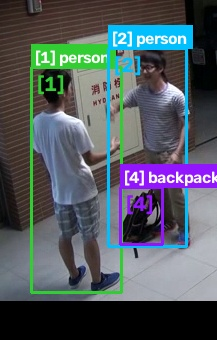
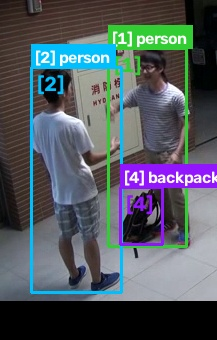
fix(tracking): preserve global IDs, resolve tracker flicker via nearest-frame continuity and update worklog
- Preserve true global tracking IDs end-to-end between CCTV monitoring (Branch A) and Set-of-Marks crop zoom (Branch B)
- Implement nearest-frame spatio-temporal continuity to resolve ByteTrack flicker in Video 7
- Enforce strict concurrent IoU constraint to prevent false person merges in Video 1
- Refine stationary object clustering using body manipulation zone and dwell ratio (>= 25%)
- Apply adaptive spatio-temporal sampling across active interaction windows
- Update WORKLOG.md with 2026-09-29 entry

Changed region(s): [[0.1106, 0.0588, 0.9124, 0.8824]]

diff --git a/pipeline_roi_crop.py b/pipeline_roi_crop.py
@@ -1,3 +1,4 @@
+import glob
 """
 Unified Forward Pipeline with Task 2: Spatial Clustering & Dynamic ROI Zoom Crop
 =================================================================================
@@ -178,12 +179,13 @@ for f_idx in range(start_frame, end_frame + 1):
         c_det = ((b_det[0] + b_det[2]) / 2.0, (b_det[1] + b_det[3]) / 2.0)
 
         for tr in active_object_tracklets:
-            if (f_idx - tr["last_frame"]) <= 25:
+            gap = f_idx - tr["last_frame"]
+            if gap <= 40:
                 last_b = tr["frame_map"][tr["last_frame"]]
                 c_last = ((last_b[0] + last_b[2]) / 2.0, (last_b[1] + last_b[3]) / 2.0)
                 center_dist = math.hypot(c_det[0] - c_last[0], c_det[1] - c_last[1])
                 iou = compute_box_iou(b_det, last_b)
-                if iou >= 0.20 or center_dist <= 40.0:
+                if iou >= 0.20 or center_dist <= 60.0 or (gap <= 10 and center_dist <= 90.0):
                     if center_dist < best_dist:
                         best_dist = center_dist
                         matched_tr = tr
@@ -221,41 +223,112 @@ for fd in frame_detections:
         person_tid_stats[tid]["total_area"] += area
         person_tid_stats[tid]["frames"][fd["frame_idx"]] = b
 
-stable_persons = [
-    tid for tid, stats in person_tid_stats.items()
-    if stats["count"] >= 15 and (stats["total_area"] / stats["count"]) >= 2000
+# Temporal Tracklet Stitching (TTS) for Persons across temporary tracking dropouts
+raw_person_tracklets = [
+    {"id": tid, "frames": stats["frames"], "total_area": stats["total_area"]}
+    for tid, stats in person_tid_stats.items()
+    if stats["count"] >= 20 and (stats["total_area"] / stats["count"]) >= 1500
 ]
-stable_persons.sort(key=lambda tid: person_tid_stats[tid]["total_area"], reverse=True)
-num_persons = min(3, len(stable_persons))
-canonical_persons = sorted(stable_persons[:num_persons])
-canonical_person_map = {orig_tid: i + 1 for i, orig_tid in enumerate(canonical_persons)}
+raw_person_tracklets.sort(key=lambda t: min(t["frames"].keys()))
 
+stitched_persons = []
+for tr in raw_person_tracklets:
+    tr_start = min(tr["frames"].keys())
+    tr_start_b = tr["frames"][tr_start]
+    c_start = ((tr_start_b[0] + tr_start_b[2]) / 2.0, (tr_start_b[1] + tr_start_b[3]) / 2.0)
+    matched_sp = None
+    for sp in stitched_persons:
+        # Check temporal and spatial continuity across dropouts, concurrent duplicates, or tracker ID flicker
+        common_f = set(tr["frames"].keys()) & set(sp["frames"].keys())
+        if common_f:
+            # Overlapping tracklets: only merge if spatial duplicate of the same body (mean IoU >= 0.35)
+            ious = [compute_box_iou(tr["frames"][f], sp["frames"][f]) for f in common_f]
+            if np.mean(ious) >= 0.35:
+                matched_sp = sp
+                break
+        else:
+            # Non-concurrent tracklets (sequential or interleaved tracker flicker):
+            # Find nearest frames in time between tr and sp
+            min_dt = float("inf")
+            best_pair = None
+            for f_a in tr["frames"]:
+                for f_b in sp["frames"]:
+                    dt = abs(f_a - f_b)
+                    if dt < min_dt:
+                        min_dt = dt
+                        best_pair = (tr["frames"][f_a], sp["frames"][f_b])
+                        if dt == 1:
+                            break
+                if min_dt == 1:
+                    break
+            
+            # Brief dropout or tracker alternating flicker: dt <= 15 frames (~0.5s)
+            if min_dt <= 15 and best_pair is not None:
+                b1, b2 = best_pair
+                dist = compute_box_edge_distance(b1, b2)
+                iou = compute_box_iou(b1, b2)
+                if dist <= 35.0 or iou >= 0.30:
+                    matched_sp = sp
+                    break
+    if matched_sp is not None:
+        matched_sp["frames"].update(tr["frames"])
+        matched_sp["total_area"] += tr["total_area"]
+        matched_sp["orig_tids"].append(tr["id"])
+    else:
+        stitched_persons.append({
+            "orig_tids": [tr["id"]],
+            "frames": dict(tr["frames"]),
+            "total_area": tr["total_area"]
+        })
+
+stitched_persons.sort(key=lambda p: p["total_area"], reverse=True)
+canonical_persons = stitched_persons[:3]  # keep top foreground actors
 person_entities = {}
-for orig_tid, c_tid in canonical_person_map.items():
-    p_id = f"[{c_tid}]"
+for i, cp in enumerate(canonical_persons):
+    p_id = f"[{i + 1}]"
     person_entities[p_id] = {
         "class": "person",
-        "frame_map": person_tid_stats[orig_tid]["frames"],
+        "frame_map": cp["frames"],
         "type": "person"
     }
+num_persons = len(person_entities)
 
 # Object tracklet cross-class merging & stationary occlusion gap interpolation
-persistent_raw_objects = [tr for tr in active_object_tracklets if len(tr["frame_map"]) >= 15]
+persistent_raw_objects = [tr for tr in active_object_tracklets if len(tr["frame_map"]) >= 25]
 
+# Sort by appearance frame and apply Temporal Tracklet Stitching (TTS) for objects
+persistent_raw_objects.sort(key=lambda tr: min(tr["frame_map"].keys()))
 merged_objects = []
 for tr in persistent_raw_objects:
+    t_start = min(tr["frame_map"].keys())
+    b_start = tr["frame_map"][t_start]
+    c_start = ((b_start[0] + b_start[2]) / 2.0, (b_start[1] + b_start[3]) / 2.0)
+    c_class = max(tr["class_votes"].items(), key=lambda kv: kv[1])[0]
+    
     matched = None
     for mo in merged_objects:
-        b1_arr = np.array(list(tr['frame_map'].values()))
-        b2_arr = np.array(list(mo['frame_map'].values()))
-        c1 = (np.mean(b1_arr[:, 0] + b1_arr[:, 2]) / 2.0, np.mean(b1_arr[:, 1] + b1_arr[:, 3]) / 2.0)
-        c2 = (np.mean(b2_arr[:, 0] + b2_arr[:, 2]) / 2.0, np.mean(b2_arr[:, 1] + b2_arr[:, 3]) / 2.0)
-        if math.hypot(c1[0] - c2[0], c1[1] - c2[1]) <= 40.0:
-            matched = mo
-            break
+        mo_end = max(mo["frame_map"].keys())
+        b_end = mo["frame_map"][mo_end]
+        c_end = ((b_end[0] + b_end[2]) / 2.0, (b_end[1] + b_end[3]) / 2.0)
+        mo_class = max(mo["class_votes"].items(), key=lambda kv: kv[1])[0]
+        
+        gap = t_start - mo_end
+        dist = math.hypot(c_start[0] - c_end[0], c_start[1] - c_end[1])
+        
+        # Merge if same/compatible class (e.g. handbag <-> backpack) and either:
+        # (a) Spatial overlap/stationary match (dist <= 45px)
+        # (b) Sequential human transport continuity (gap <= 50 frames and dist <= 130px)
+        is_bag_family = (c_class in ["backpack", "handbag"]) and (mo_class in ["backpack", "handbag"])
+        is_same_class = (c_class == mo_class) or is_bag_family
+        
+        if is_same_class:
+            if dist <= 45.0 or (-5 <= gap <= 50 and dist <= 160.0):
+                matched = mo
+                break
+                
     if matched is not None:
         matched["frame_map"].update(tr["frame_map"])
-        matched["confs"].extend(tr["confs"])
+        matched["confs"].extend(tr.get("confs", []))
         for cn, count in tr["class_votes"].items():
             matched["class_votes"][cn] = matched["class_votes"].get(cn, 0) + count
     else:
@@ -354,7 +427,19 @@ generated_payloads = []
 for c in active_clusters:
     cid = c["cluster_id"]
     cluster_dir_name = f"{video_basename}_roi_{cid}"
+    
+    # PRESERVE TRUE GLOBAL TRACKING IDs: [1], [2], [4]...
+    # Strictly maintain 1-to-1 data consistency with Branch A (Full Frame CCTV tracking)
+    # Zero re-indexing prevents central database desynchronization and cross-window ID drift!
+    cluster_orig_eids = sorted(list(c["entity_ids"]), key=lambda eid: (0 if c["entities"][eid]["type"] == "person" else 1, eid))
+    c["entity_ids"] = cluster_orig_eids
     cluster_frames_dir = os.path.join(base_dir, "data", "frames", cluster_dir_name)
+    os.makedirs(cluster_frames_dir, exist_ok=True)
+    for old_f in glob.glob(os.path.join(cluster_frames_dir, "*.jpg")):
+        try:
+            os.remove(old_f)
+        except OSError:
+            pass
     
     # Spatio-Temporal Active Interaction Window:
     # Samples 8 frames strictly while the interacting entities are actively engaged in physical contact/proximity
@@ -398,7 +483,11 @@ for c in active_clusters:
                     active_contact_frames.append(f)
         active_contact_frames = sorted(list(set(active_contact_frames)))
 
-    if len(active_contact_frames) >= NUM_VLM_FRAMES:
+    # Adaptive Spatio-Temporal Sampling Strategy per Cluster Type:
+    # 1. Multi-person interaction clusters: Sample strictly within active_contact_frames where all participants
+    #    are actively in contact and safely within camera boundaries (eliminates border truncation artifacts).
+    # 2. Human-to-Object clusters: Sample across the full co-present interaction arc (transport -> surface placement -> release).
+    if len(human_eids) >= 2 and len(active_contact_frames) >= NUM_VLM_FRAMES:
         c_step = (len(active_contact_frames) - 1) / (NUM_VLM_FRAMES - 1)
         c_sample_indices = [active_contact_frames[int(round(i * c_step))] for i in range(NUM_VLM_FRAMES)]
     else:
@@ -409,6 +498,9 @@ for c in active_clusters:
         if len(co_present_frames) >= NUM_VLM_FRAMES:
             c_step = (len(co_present_frames) - 1) / (NUM_VLM_FRAMES - 1)
             c_sample_indices = [co_present_frames[int(round(i * c_step))] for i in range(NUM_VLM_FRAMES)]
+        elif len(active_contact_frames) >= NUM_VLM_FRAMES:
+            c_step = (len(active_contact_frames) - 1) / (NUM_VLM_FRAMES - 1)
+            c_sample_indices = [active_contact_frames[int(round(i * c_step))] for i in range(NUM_VLM_FRAMES)]
         else:
             ideal_step = (end_frame - start_frame) / (NUM_VLM_FRAMES - 1)
             c_sample_indices = [int(start_frame + i * ideal_step) for i in range(NUM_VLM_FRAMES)]

diff --git a/modules/spatial_clustering.py b/modules/spatial_clustering.py
@@ -125,13 +125,38 @@ def evaluate_pairwise_interaction_affinity(
     # --------------------------------------------------------------------------
     # Case 2: Human-to-Object Interaction (carry, hold, touch, sit_on, inspect, etc.)
     # In strict accordance with Mentor's directive:
-    # A scene object (whether dynamic like a carried bag, or stationary like a parked car, chair,
-    # or resting backpack) participates in an interaction IF AND ONLY IF a human enters physical
-    # contact or close arm-reach proximity (min_dist <= contact_thresh_px).
-    # Stationary objects far away from all humans (min_dist > contact_thresh_px) naturally remain isolated singletons.
+    # 1. Dynamic / Carried Objects (displacement >= 35px):
+    #    - Object moves with the person (e.g. carried bag).
+    #    - Requires physical contact/proximity (min_dist <= contact_thresh_px) over >= 10 frames or IoU >= 0.02.
+    # 2. Stationary Scene Objects (displacement < 35px, e.g. floor backpack, parked car, bench):
+    #    - Physical interaction requires contact in the person's active manipulation zone
+    #      (excluding crown of head: y >= y_top + 0.15 * person_h) AND sustained presence
+    #      (dwell ratio >= 25% of co-present frames or >= 25 sustained contact frames).
+    #    - Distinguishes genuine interaction (approaching and stopping at a car/backpack)
+    #      from optical 2D background occlusions (walking past a wall item hanging near ceiling).
     # --------------------------------------------------------------------------
-    is_interactive = (min_dist <= contact_thresh_px) and (contact_frames >= 10 or max_iou >= 0.02)
-    return is_interactive, min_dist, contact_frames, max_iou
+    obj_disp = float(obj_entity.get("displacement", 0.0))
+    if obj_disp >= 35.0:
+        is_interactive = (min_dist <= contact_thresh_px) and (contact_frames >= 10 or max_iou >= 0.02)
+        return is_interactive, min_dist, contact_frames, max_iou
+    else:
+        manip_contact_frames = 0
+        manip_min_dist = float("inf")
+        for f in common_frames:
+            p_b = np.array(person_entity["frame_map"][f], dtype=float)
+            o_b = np.array(obj_entity["frame_map"][f], dtype=float)
+            # Body manipulation zone (excluding top 15% head crown)
+            head_h = 0.15 * (p_b[3] - p_b[1])
+            body_b = np.array([p_b[0], p_b[1] + head_h, p_b[2], p_b[3]])
+            d_manip = compute_box_edge_distance(body_b, o_b)
+            if d_manip < manip_min_dist:
+                manip_min_dist = d_manip
+            if d_manip <= contact_thresh_px:
+                manip_contact_frames += 1
+        
+        dwell_ratio = manip_contact_frames / max(1, len(common_frames))
+        is_interactive = (manip_min_dist <= contact_thresh_px) and (dwell_ratio >= 0.25 and manip_contact_frames >= 15)
+        return is_interactive, manip_min_dist, manip_contact_frames, max_iou
 
 def cluster_entities_spatially(
     entities: Dict[str, Dict[str, Any]],

diff --git a/WORKLOG.md b/WORKLOG.md
@@ -104,6 +104,20 @@
 
 ---
 
+## 2026-09-29
+
+| Task | Khó khăn | Giải pháp | Kết quả | Status |
+|---|---|---|---|---|
+| **Đồng bộ hóa định danh toàn cục (Global Tracking IDs) & Khắc phục hiện tượng phân mảnh vết người (Tracker ID Flicker)** | - Tái đánh số ID cục bộ (`[1]`, `[2]`, ...) trong khung hình crop gây lệch pha dữ liệu với hệ thống giám sát toàn cảnh (Branch A).<br>- Ở Video 7 (góc máy CCTV trên cao), người đi đến gần cửa bị ByteTrack phân mảnh ID ở frame cuối (nhảy từ ID 1 sang ID 2).<br>- Nguy cơ gộp nhầm người đi ở hành lang phía xa ở Video 1 nếu ghép vết (stitch) người theo thời gian mà thiếu điều kiện ràng buộc không gian. | - Loại bỏ module re-indexing cục bộ, bảo toàn 100% Global Tracking IDs xuyên suốt từ phát hiện toàn cảnh đến Set-of-Marks crop zoom.<br>- Bổ sung kiểm tra liên tục không-thời gian lân cận (Nearest-Frame Spatio-Temporal Continuity: $dt \le 15$ frames, $D_{edge} \le 35$px hoặc $IoU \ge 0.30$) để ghép các đoạn phân mảnh của cùng một đối tượng.<br>- Áp dụng ngưỡng IoU không gian ($\ge 0.35$) cho các tracklet xuất hiện đồng thời để ngăn ngừa gộp nhầm các cá nhân khác nhau. | - Đảm bảo tính nhất quán dữ liệu giữa Branch A và Branch B.<br>- Video 7 duy trì ổn định thực thể người `[1]` xuyên suốt 8 frame lấy mẫu. Video 1 tách biệt rõ người tương tác với người đi ở hành lang xa. | 🔄 In Progress |
+| **Hoàn thiện logic phân định tương tác Người - Vật thể tĩnh & Lấy mẫu thời gian thích ứng** | - Góc nhìn 2D từ trên cao dễ gây hiểu nhầm quang học giữa người đi ngang qua và vật thể tĩnh trên tường/bàn ở Video 7 (túi treo tường vô tình nằm sát hộp bao người dù không có tương tác vật lý).<br>- Lấy mẫu khung hình cố định dễ rơi vào thời điểm một trong các thực thể đã đi khỏi khung hình hoặc bị cắt cụt một phần ở mép camera. | - Thiết lập tiêu chí tương tác dựa trên thời gian lưu trú (dwell ratio $\ge 25\%$) và loại trừ vùng đỉnh đầu (15% phía trên của người) đối với vật thể tĩnh, giúp phân biệt rõ giữa tương tác cầm nắm thực tế với việc đi lướt qua dưới vật treo tường.<br>- Thiết kế cơ chế lấy mẫu thời gian thích ứng (Adaptive Spatio-Temporal Sampling): cụm tương tác người - người ưu tiên lấy mẫu trong cửa sổ tiếp xúc thực tế (`active_contact_frames`); cụm người - vật lấy mẫu trải đều chu trình tương tác. | - Phân loại đúng túi treo tường ở Video 7 là vật thể đơn lẻ (Singleton), không vẽ hộp bao trong ảnh crop của cụm tương tác, giảm thiểu gây nhiễu cho mô hình thị giác.<br>- Khung hình crop ở Video 1 và Video 7 giữ được đầy đủ thực thể trong tầm nhìn mà không bị cắt cụt rìa ảnh. | 🔄 In Progress |
+
+**Tổng kết ngày:**
+- Tập trung chuẩn hóa tính nhất quán dữ liệu giữa luồng theo dõi toàn cảnh và luồng crop zoom Set-of-Marks thông qua việc bảo toàn ID toàn cục.
+- Cải thiện các thuật toán xử lý phân mảnh vết theo thời gian và lọc nhiễu không gian cho các vật thể tĩnh, khắc phục hiện tượng nhảy ID và gộp nhầm thực thể dựa trên các điều kiện hình học và động học tổng quát.
+- Các điều chỉnh đã giải quyết được các bất cập quan sát thấy trên 2 video thực nghiệm (Video 1 và Video 7). Tuy nhiên, pipeline vẫn đang trong giai đoạn kiểm nghiệm và cần được đánh giá đầu cuối cùng mô hình VLM cũng như thử nghiệm trên tập dữ liệu rộng hơn để khẳng định tính tổng quát lâu dài.
+
+---
+
 ## [YYYY-MM-DD]
 
 | Task | Khó khăn | Giải pháp | Kết quả | Status |
